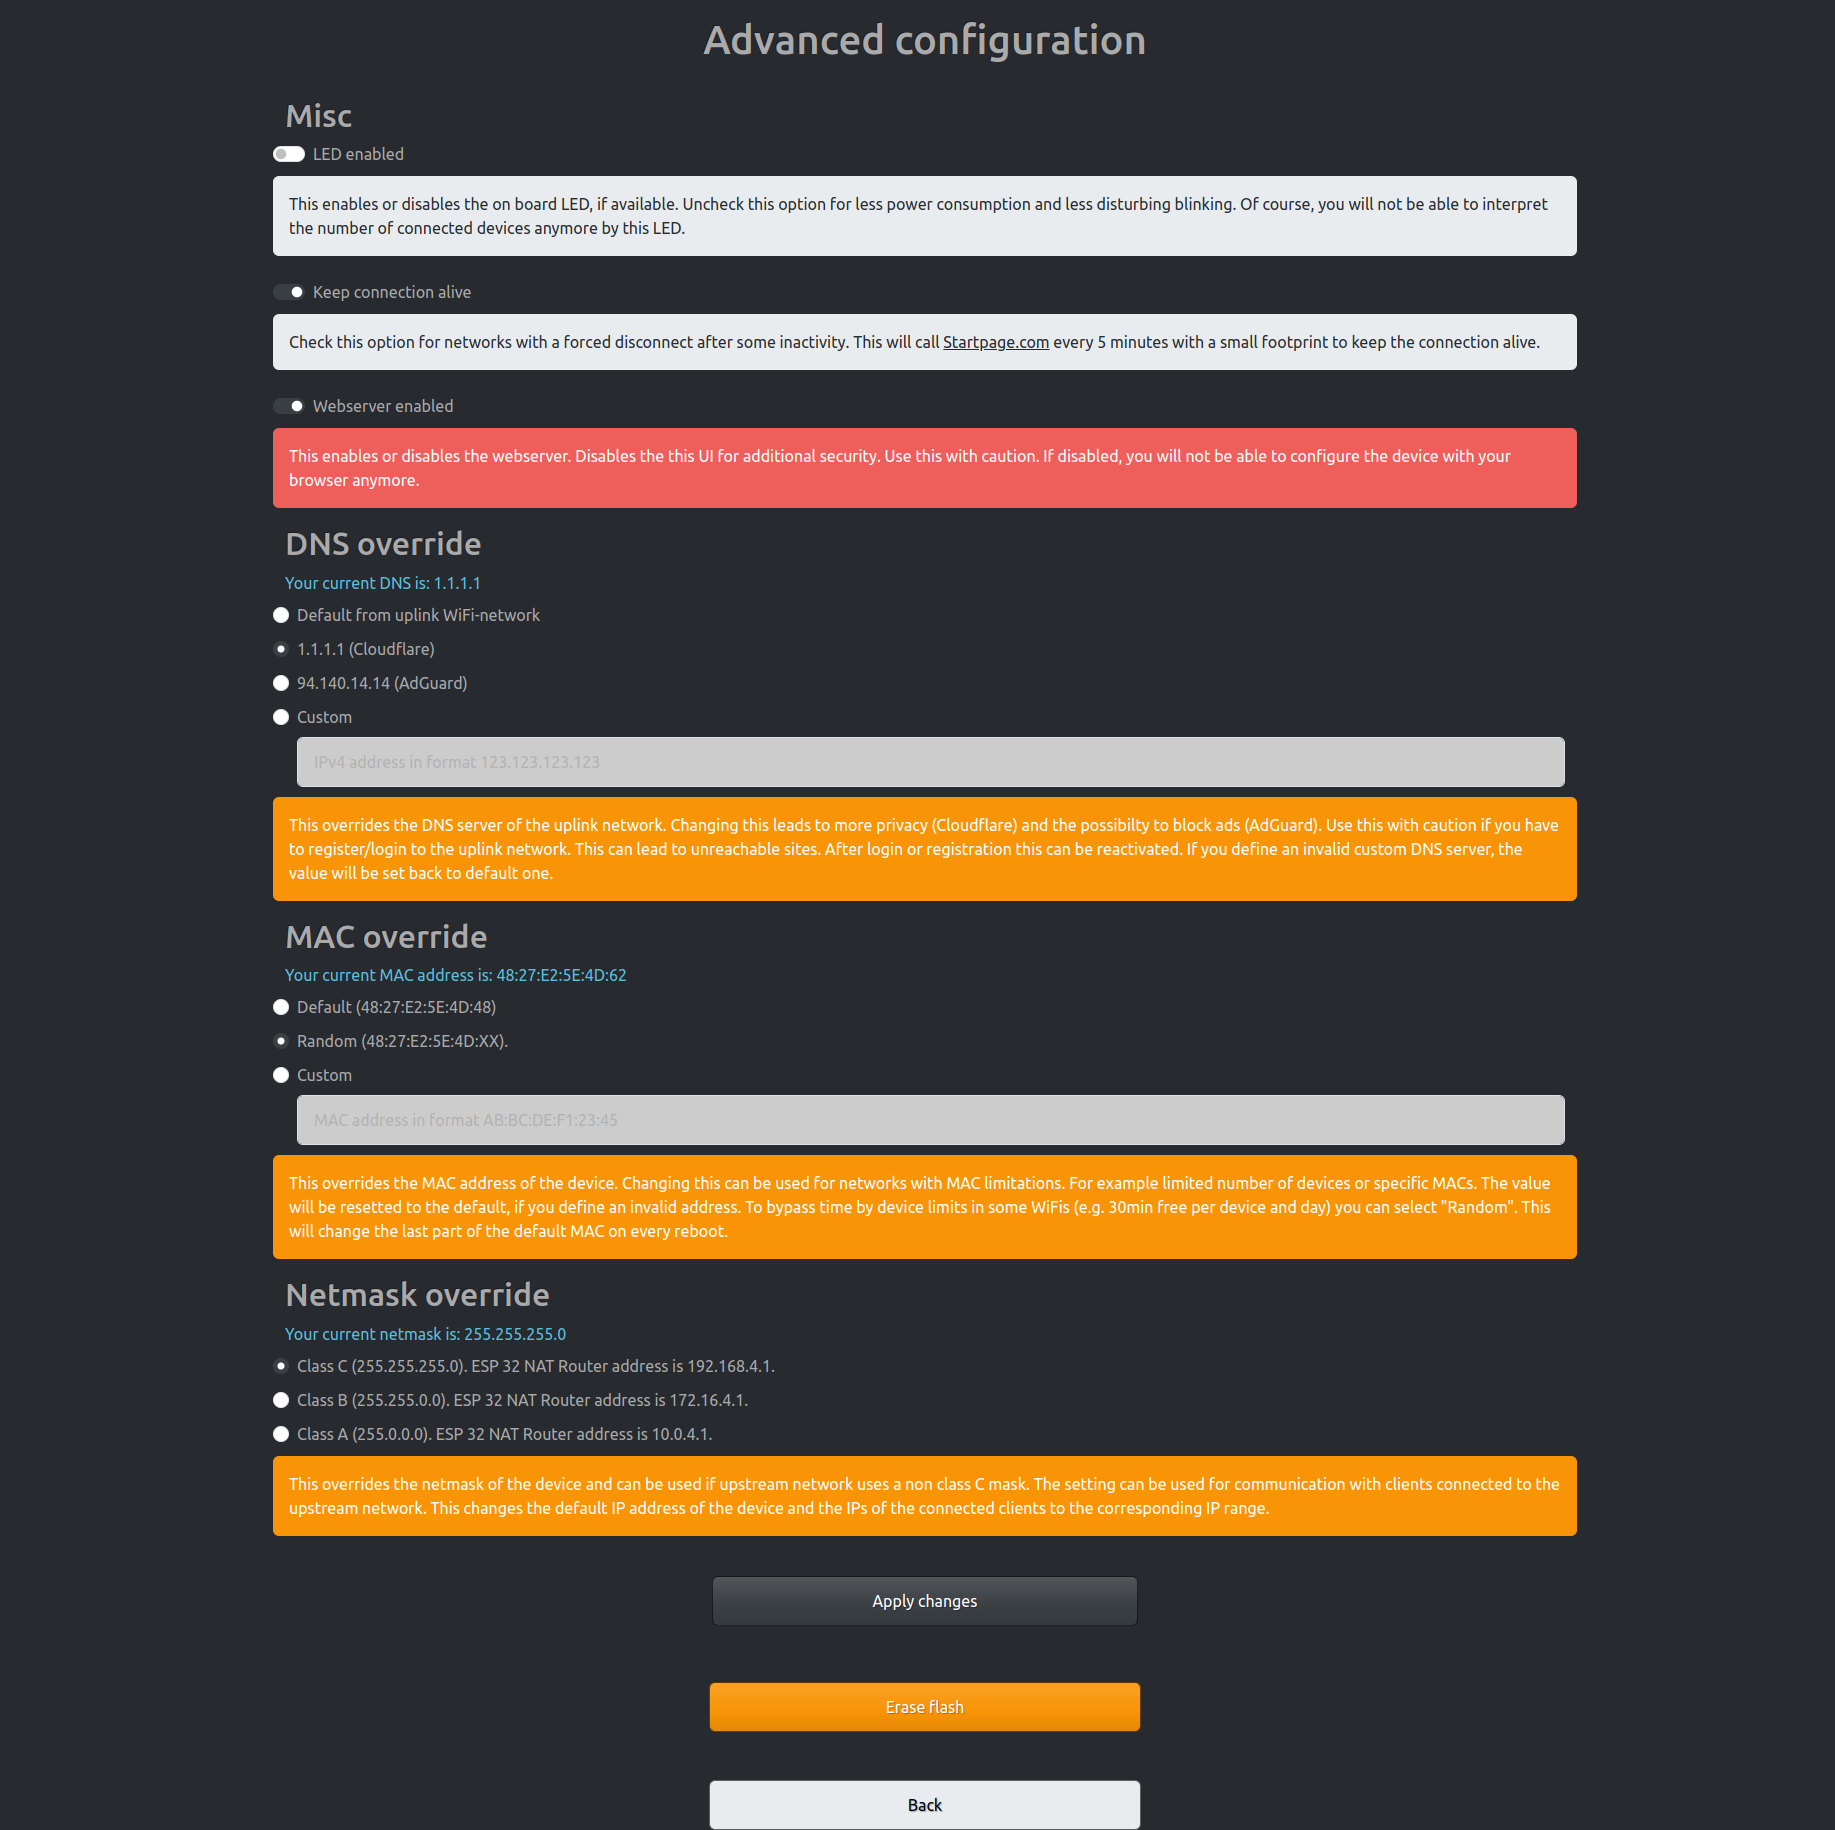
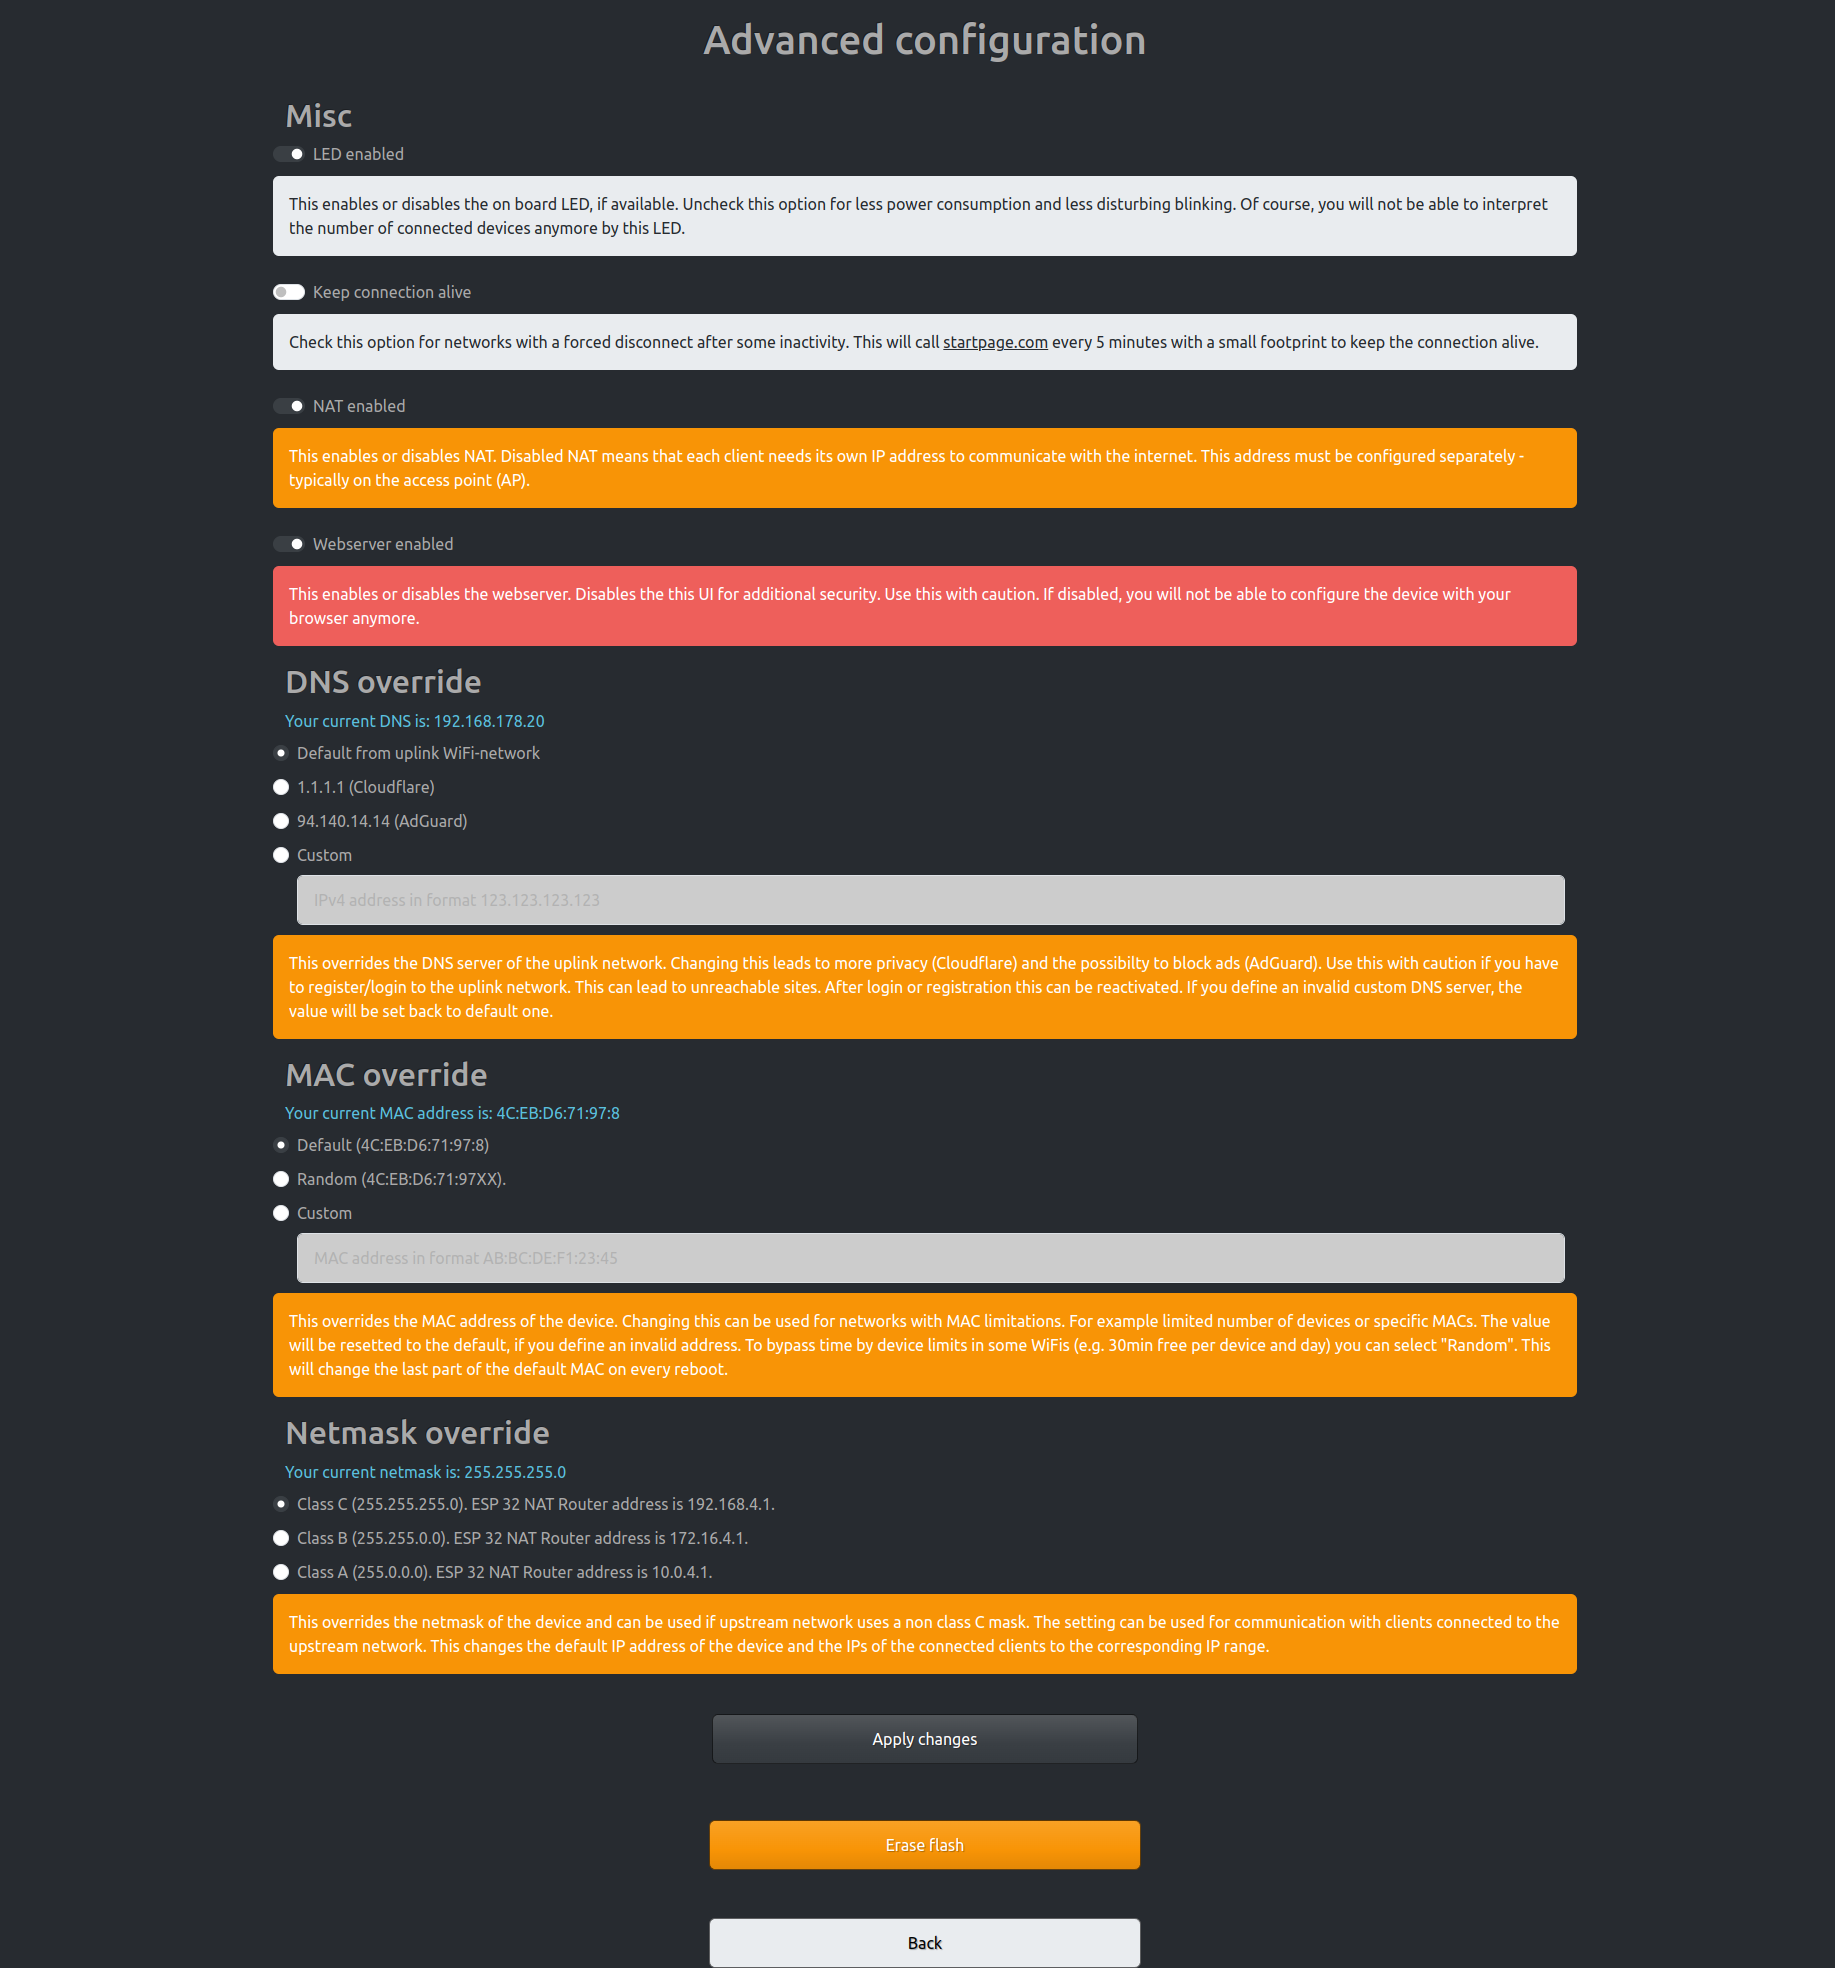
Added documentation for NAT

Changed region(s): [[0.1243, 0.0311, 0.8698, 0.9967], [0.3728, 0.0, 0.6213, 0.0311]]

diff --git a/src/pages/advanced.html b/src/pages/advanced.html
@@ -35,14 +35,17 @@
                                 <div class="alert alert-light mt-2" role=alert> Check this option for networks with a
                                         forced disconnect
                                         after some inactivity. This will call <a
-                                                href=https:www.startpage.com>Startpage.com</a> every 5
+                                                href=https:www.startpage.com>startpage.com</a> every 5
                                         minutes with a small footprint to keep the connection alive. </div>
                         </div>
                         <div class="form-group row mt-2">
                                 <div class="form-check form-switch"> <input class=form-check-input type=checkbox
                                                 id=natenabled name=natenabled %s> <label class=form-check-label
                                                 for=natenabled>NAT enabled</label> </div>
-                                <div class="alert alert-warning mt-2" role=alert> This enables or disables NAT.</div>
+                                <div class="alert alert-warning mt-2" role=alert> This enables or disables NAT. Disabled
+                                        NAT means that each client needs its own IP address to communicate with the
+                                        internet. This address must be configured separately - typically on the access
+                                        point (AP).</div>
                         </div>
                         <div class="form-group row mt-2 ">
                                 <div class="form-check form-switch"> <input class=form-check-input type=checkbox

diff --git a/docs/advanced.md b/docs/advanced.md
@@ -153,6 +153,7 @@ show
 | ssid      | str       |SSID of the STA network|
 | keep_alive   | i32        | Keep the connection alive|
 | led_disabled   | i32        | Is the LED disabled|
+| nat_disabled   | i32        | Is NAT disabled|
 | lock   | i32        | Webserver is disabled|
 | custom_mac   | str        | Custom Mac address or "random"|
 | custom_dns   | str        | Custom DNS address|
